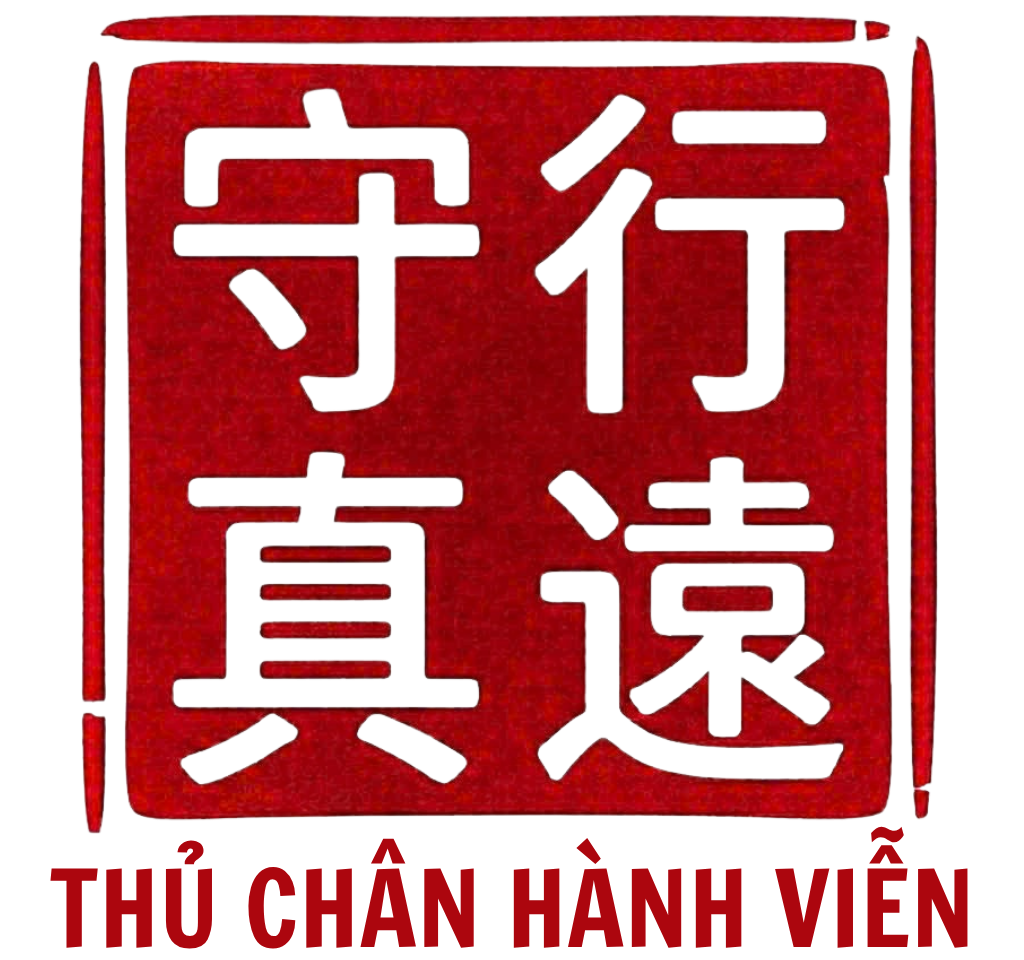
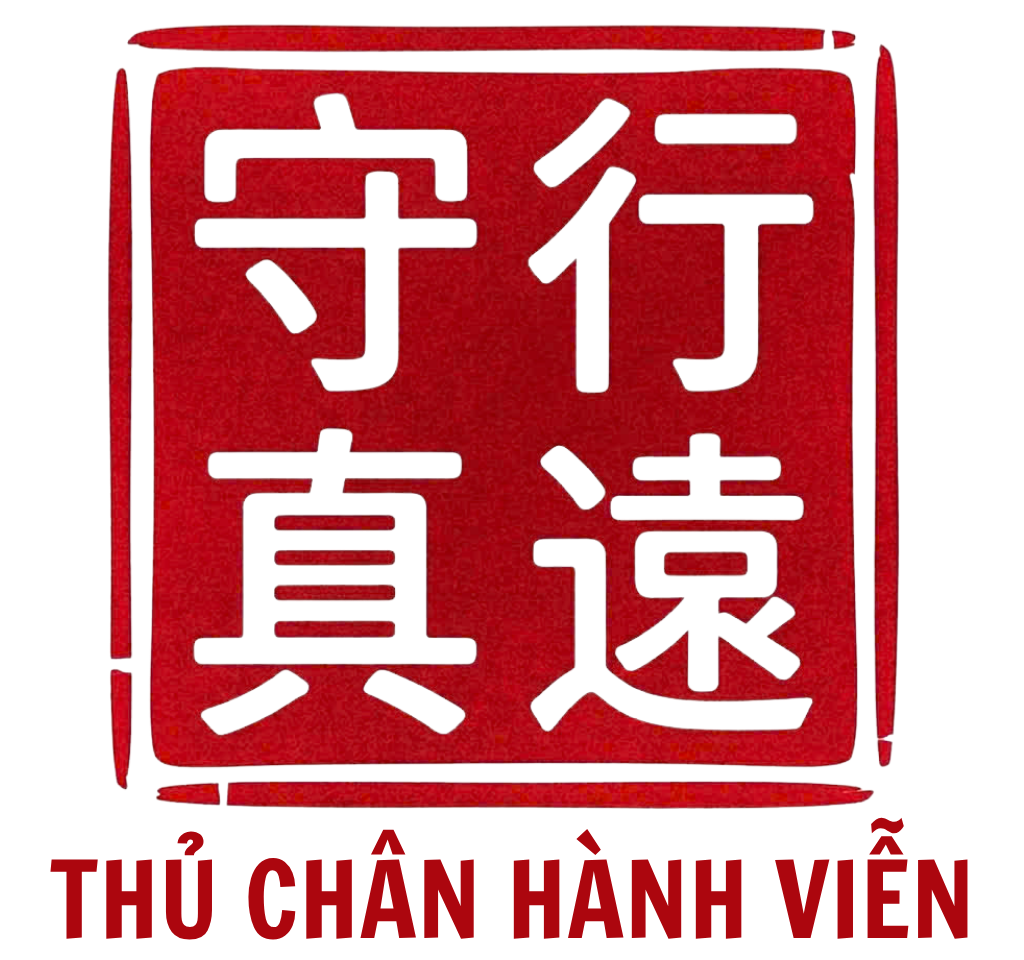
Add files via upload

diff --git a/app.js b/app.js
@@ -699,7 +699,7 @@ function renderCaptureHTML(data) {
                     }).join('');
                 })()}
                 <div class="contact-info" style="grid-column: 3 / 5; text-align: center; align-self: end; padding-bottom: 5px; font-size: 17px; color: #1a1a1a; font-weight: 700; font-style: italic;">
-                    <span style="color: #c62741;">Trần Duy</span> 0943.44.77.68 (ZALO)
+                    <span style="color: #c62741;">TRẦN DUY</span> 0943.44.77.68 (ZALO)
                 </div>
             </div>
         </div>